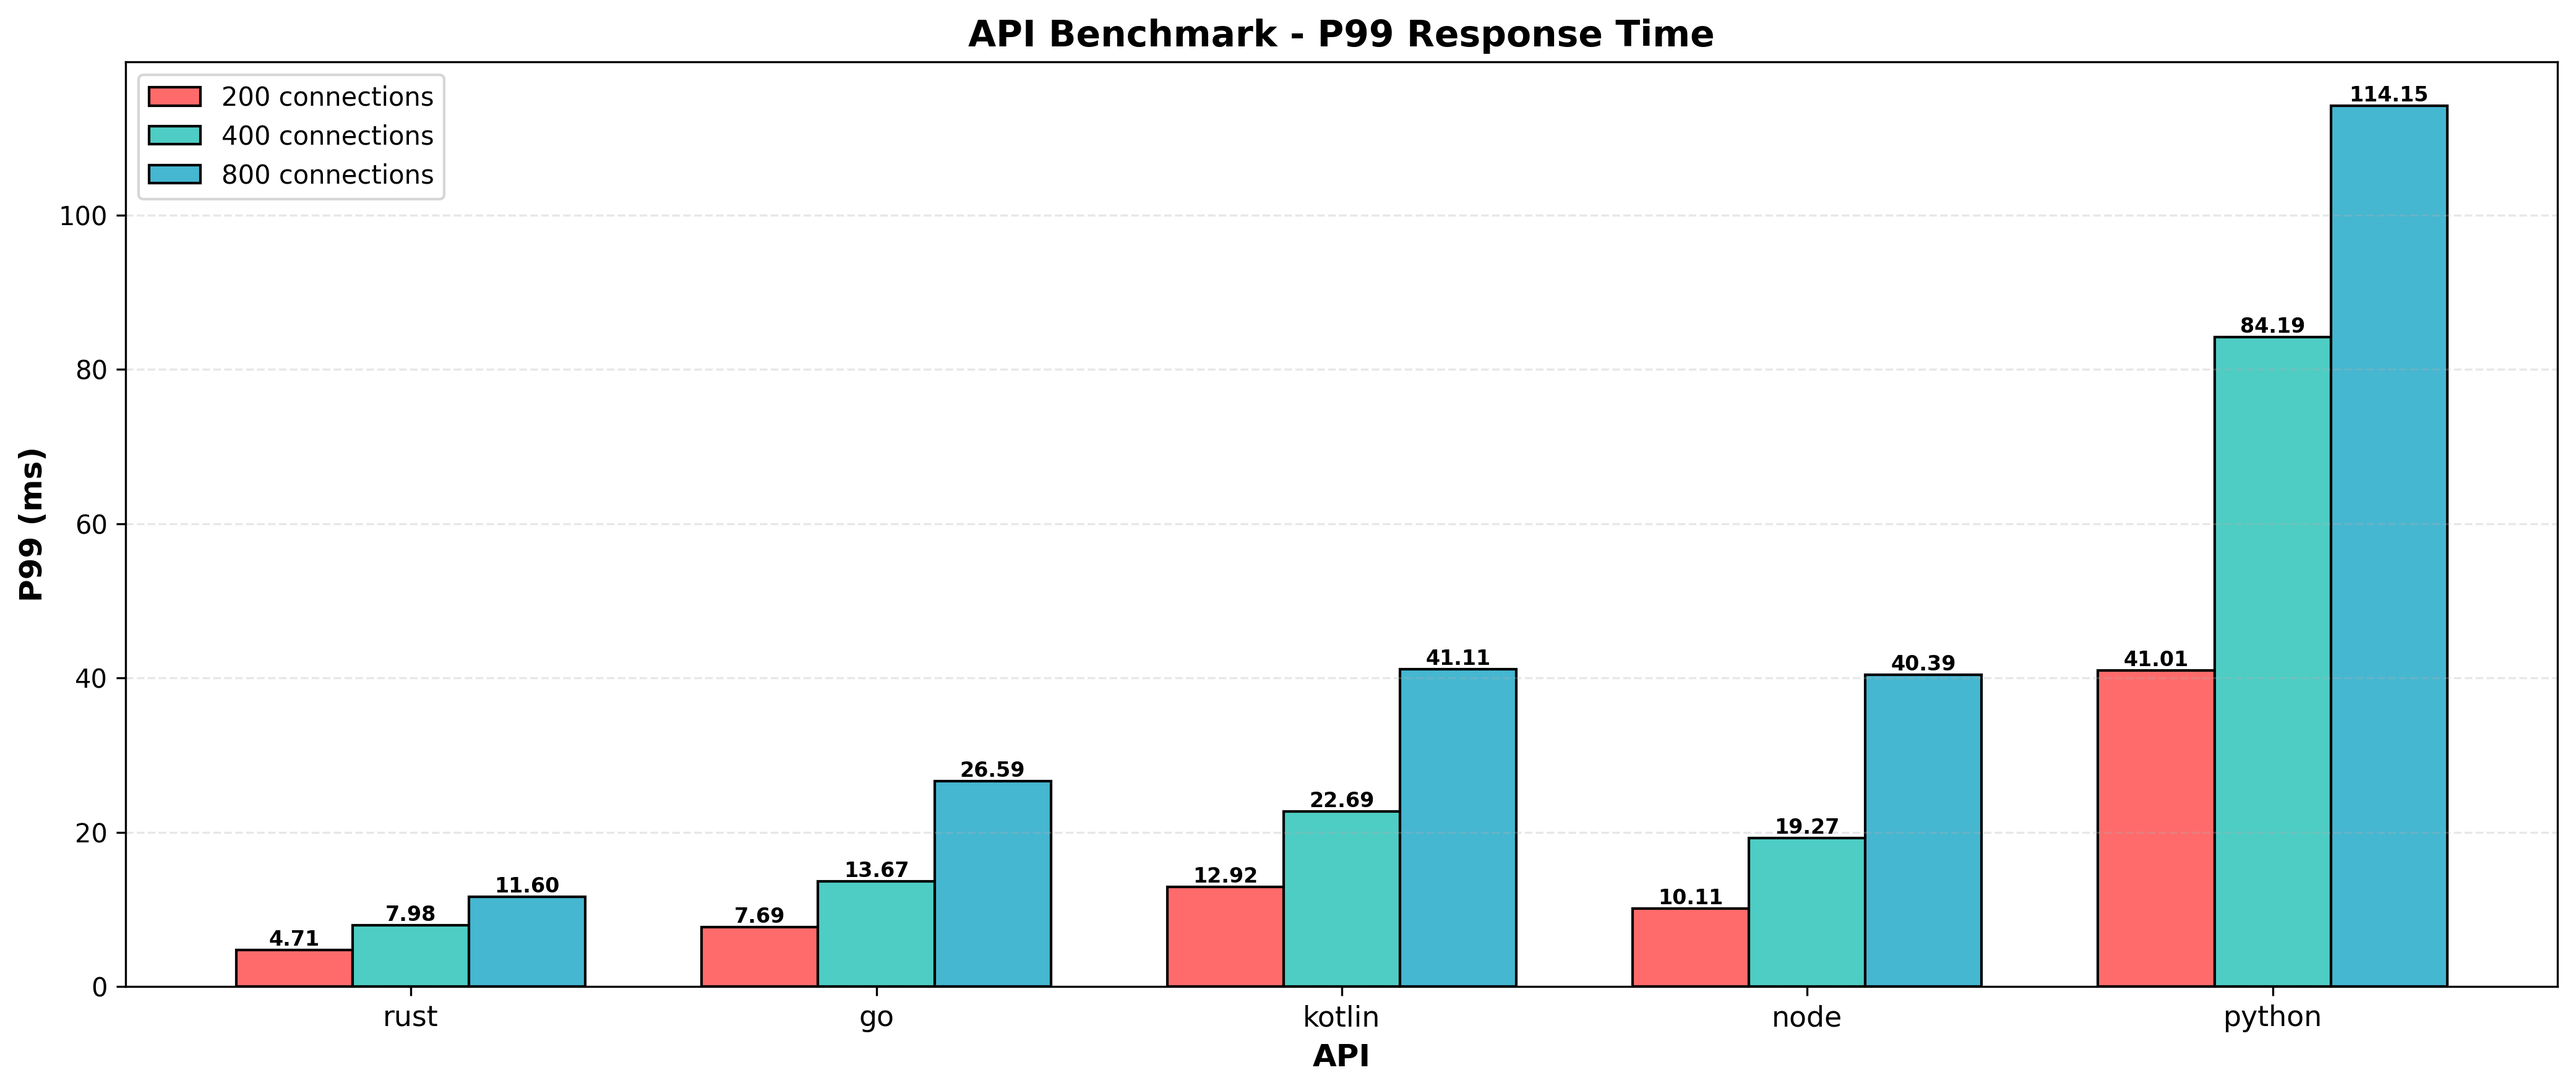
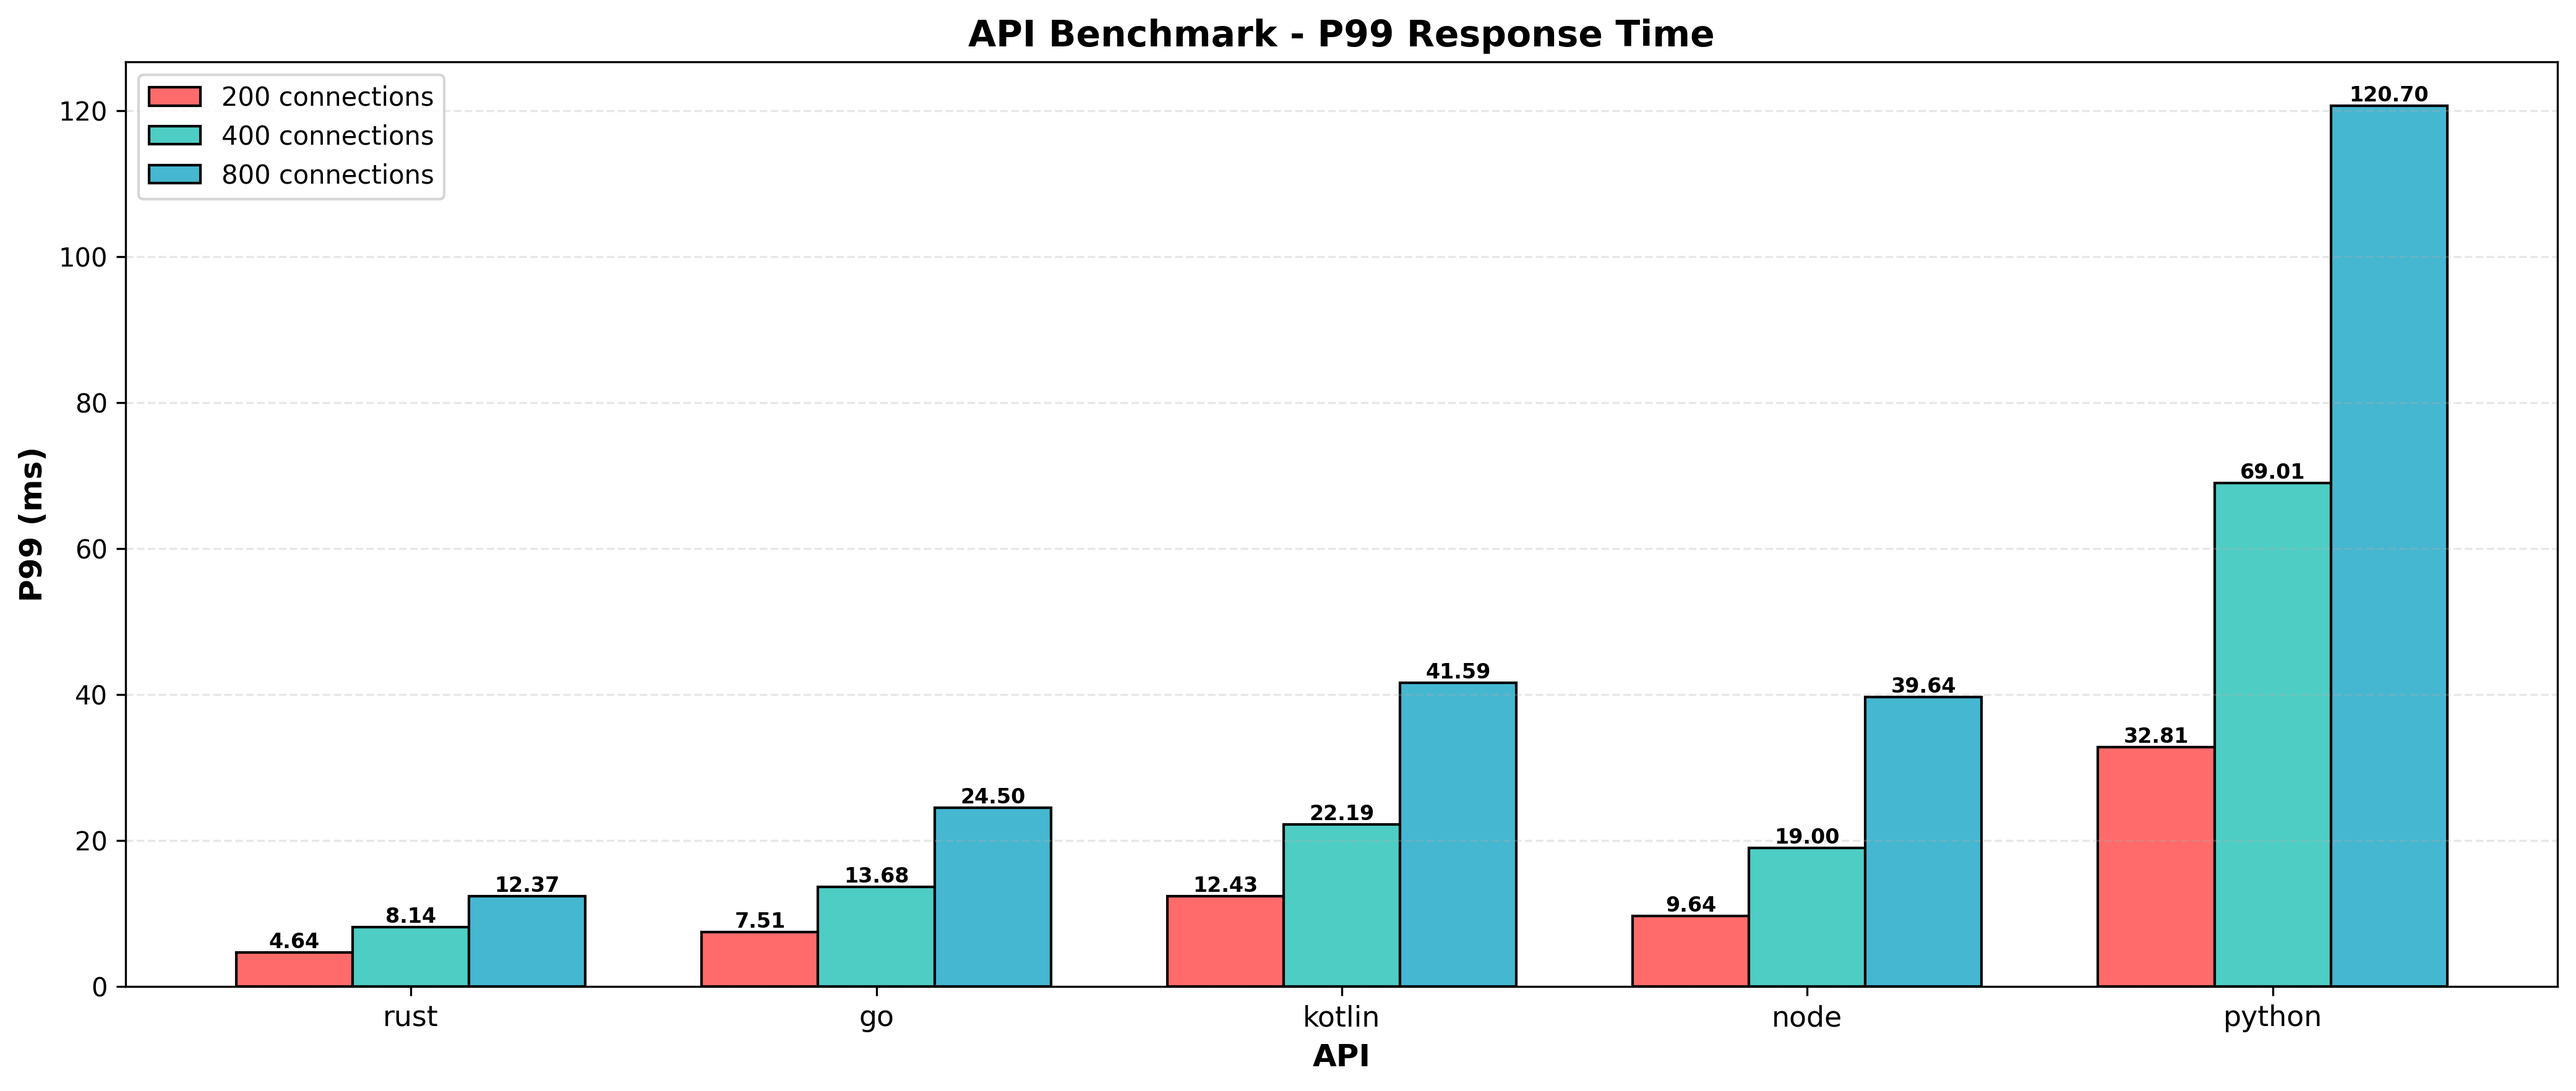
results from github actions autocommit

diff --git a/results/raw.md b/results/raw.md
@@ -1,6 +1,6 @@
 # Results
 ## Timestamp
-Fri Jan 23 11:12:09 UTC 2026
+Mon Jan 26 00:38:19 UTC 2026
 ## Hardware Info
 | CPU Model | Num CPUs | Memory |
 | --------- | -------- | ------ |
@@ -9,18 +9,18 @@ Fri Jan 23 11:12:09 UTC 2026
 ## Benchmarks of 1 Million Requests
 | Test Name | HTTP Conns | Success Rate | Test Seconds | Requests per Second | P50 Millis | P99 Millis | P99.9 Millis | API Memory MB | API CPU Time | API Threads | API Processes |
 | --------- | ---------- | ------------ | ------------ | ------------------- | ---------- | ---------- | ------------ | ------------- | ------------ | ----------- | ------------- |
-| rust | 200 | 100.0% | 9.0 | 110056.7 | 1.6568 | 4.7078 | 6.2743 | 8.5 | 00:00:17 | 5 | 1 |
-| rust | 400 | 100.0% | 8.8 | 113397.5 | 3.3126 | 7.9790 | 10.7480 | 12.9 | 00:00:17 | 5 | 1 |
-| rust | 800 | 100.0% | 8.8 | 113512.6 | 6.8997 | 11.6045 | 18.3534 | 22.1 | 00:00:17 | 5 | 1 |
-| go | 200 | 100.0% | 12.0 | 82831.7 | 1.8913 | 7.6880 | 10.7183 | 17.4 | 00:00:28 | 11 | 1 |
-| go | 400 | 100.0% | 11.5 | 86389.7 | 3.9261 | 13.6683 | 19.0102 | 24.6 | 00:00:27 | 11 | 1 |
-| go | 800 | 100.0% | 11.7 | 85535.4 | 8.3495 | 26.5888 | 39.8050 | 37.6 | 00:00:28 | 10 | 1 |
-| kotlin | 200 | 100.0% | 15.1 | 66190.7 | 2.0713 | 12.9201 | 29.7164 | 527.7 | 00:00:42 | 30 | 1 |
-| kotlin | 400 | 100.0% | 14.2 | 70294.4 | 4.6497 | 22.6887 | 56.4587 | 517.4 | 00:00:39 | 30 | 1 |
-| kotlin | 800 | 100.0% | 14.9 | 67096.1 | 9.7958 | 41.1075 | 108.5116 | 542.5 | 00:00:41 | 30 | 1 |
-| node | 200 | 100.0% | 33.5 | 29800.9 | 5.6907 | 10.1054 | 11.1428 | 106.5 | 00:00:33 | 7 | 1 |
-| node | 400 | 100.0% | 34.1 | 29271.0 | 11.6537 | 19.2694 | 22.5109 | 138.2 | 00:00:34 | 7 | 1 |
-| node | 800 | 100.0% | 36.6 | 27301.8 | 25.5691 | 40.3904 | 42.9428 | 149.6 | 00:00:37 | 7 | 1 |
-| python | 200 | 100.0% | 101.2 | 9881.0 | 16.8809 | 41.0075 | 47.3119 | 134.5 | 00:06:04 | 5 | 5 |
-| python | 400 | 100.0% | 102.1 | 9798.5 | 23.0298 | 84.1944 | 93.4767 | 137.3 | 00:06:09 | 5 | 5 |
-| python | 800 | 100.0% | 104.5 | 9961.9 | 84.5606 | 114.1489 | 122.9402 | 144.8 | 00:06:17 | 5 | 5 |
+| rust | 200 | 100.0% | 9.0 | 110104.8 | 1.6742 | 4.6389 | 6.1973 | 8.4 | 00:00:17 | 5 | 1 |
+| rust | 400 | 100.0% | 9.0 | 110418.3 | 3.4049 | 8.1433 | 12.0836 | 13.1 | 00:00:17 | 5 | 1 |
+| rust | 800 | 100.0% | 9.6 | 104376.9 | 7.5690 | 12.3670 | 19.1073 | 22.0 | 00:00:18 | 5 | 1 |
+| go | 200 | 100.0% | 11.9 | 83754.8 | 1.8746 | 7.5083 | 10.2092 | 17.7 | 00:00:28 | 11 | 1 |
+| go | 400 | 100.0% | 11.4 | 87359.8 | 3.8797 | 13.6825 | 19.2343 | 24.7 | 00:00:27 | 11 | 1 |
+| go | 800 | 100.0% | 11.8 | 84747.3 | 8.5653 | 24.5045 | 37.8893 | 37.4 | 00:00:28 | 10 | 1 |
+| kotlin | 200 | 100.0% | 14.4 | 69048.2 | 2.0136 | 12.4274 | 34.5336 | 517.9 | 00:00:39 | 30 | 1 |
+| kotlin | 400 | 100.0% | 14.3 | 69679.2 | 4.6275 | 22.1894 | 72.0479 | 521.5 | 00:00:39 | 31 | 1 |
+| kotlin | 800 | 100.0% | 14.7 | 67709.1 | 9.6863 | 41.5900 | 88.2427 | 525.8 | 00:00:40 | 30 | 1 |
+| node | 200 | 100.0% | 34.8 | 28702.1 | 5.9029 | 9.6367 | 11.7743 | 106.7 | 00:00:35 | 7 | 1 |
+| node | 400 | 100.0% | 33.3 | 29992.8 | 11.7838 | 19.0043 | 21.6734 | 140.7 | 00:00:33 | 7 | 1 |
+| node | 800 | 100.0% | 35.3 | 28335.3 | 23.9340 | 39.6409 | 53.3950 | 150.4 | 00:00:35 | 7 | 1 |
+| python | 200 | 100.0% | 100.4 | 9959.0 | 22.2647 | 32.8114 | 37.4012 | 134.0 | 00:06:01 | 5 | 5 |
+| python | 400 | 100.0% | 100.4 | 9955.6 | 38.8300 | 69.0134 | 79.8270 | 135.1 | 00:06:02 | 5 | 5 |
+| python | 800 | 100.0% | 103.4 | 10134.4 | 82.4216 | 120.6968 | 130.9472 | 143.3 | 00:06:14 | 5 | 5 |

diff --git a/results/latest.md b/results/latest.md
@@ -1,6 +1,6 @@
 # Latest Results
 
-Timestamp: `Fri Jan 23 11:12:09 UTC 2026`
+Timestamp: `Mon Jan 26 00:38:19 UTC 2026`
 
 ## Requests Per Second
 ![Requests Per Second](rps.png)
